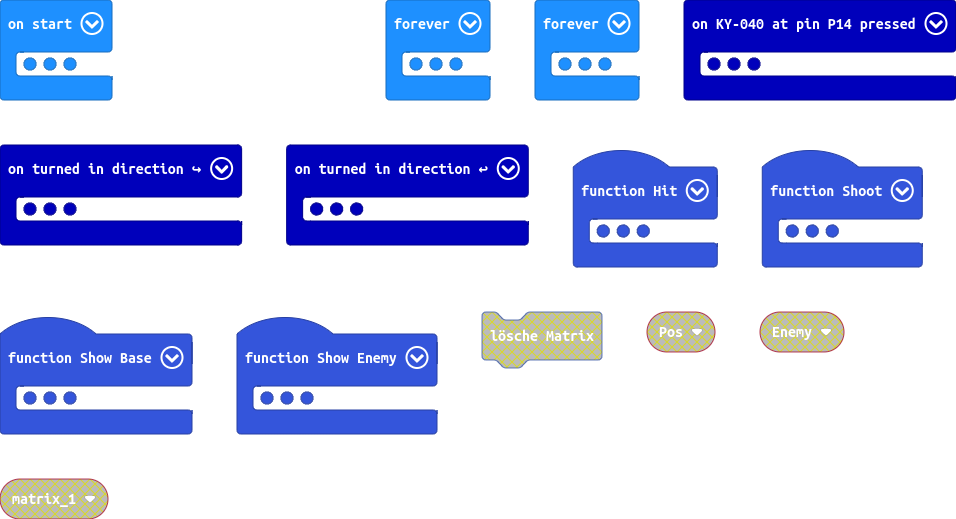
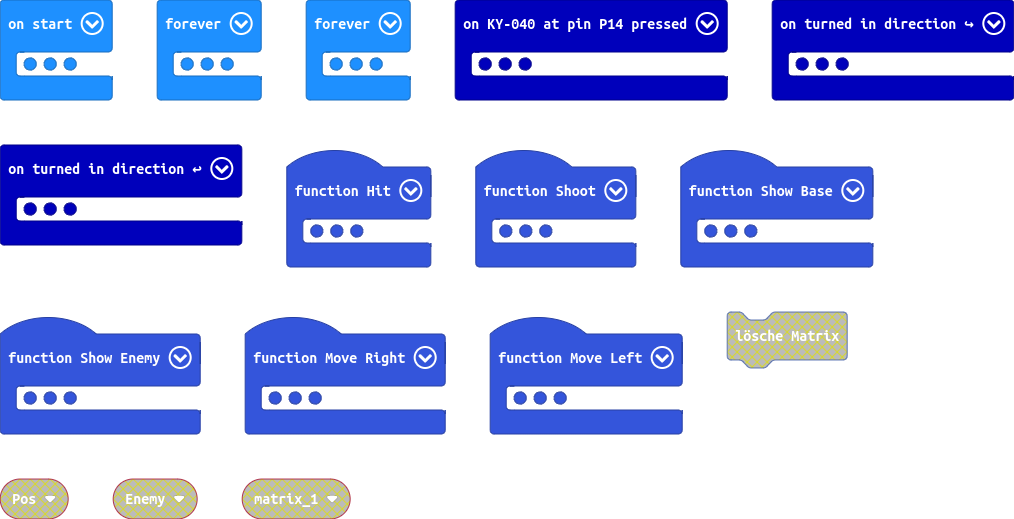
define move functions

diff --git a/main.ts b/main.ts
@@ -5,6 +5,14 @@ function Show_Enemy () {
     callimatrix.SetMatrixColorbright(0xff0000, 7, Enemy)
     callimatrix.callimatrix_show()
 }
+function Move_Right () {
+    Pos += -1
+    if (Pos <= 0) {
+        Pos = 0
+    }
+    basic.pause(25)
+    basic.clearScreen()
+}
 function Show_Base () {
     callimatrix.SetMatrixColorbright(0x000000, 0, Pos + 1, cbrightness.hp6)
     callimatrix.SetMatrixColorbright(0x000000, 0, Pos - 1, cbrightness.hp6)
@@ -28,12 +36,7 @@ function Shoot () {
     basic.clearScreen()
 }
 KY040.onTurned(direction.clockwise, function () {
-    Pos += 1
-    if (Pos >= 7) {
-        Pos = 7
-    }
-    basic.pause(25)
-    basic.clearScreen()
+    Move_Left()
 })
 function Hit () {
     basic.showIcon(IconNames.Angry)
@@ -44,13 +47,16 @@ function Hit () {
     basic.clearScreen()
 }
 KY040.onTurned(direction.counterclockwise, function () {
-    Pos += -1
-    if (Pos <= 0) {
-        Pos = 0
+    Move_Right()
+})
+function Move_Left () {
+    Pos += 1
+    if (Pos >= 7) {
+        Pos = 7
     }
     basic.pause(25)
     basic.clearScreen()
-})
+}
 let Enemy = 0
 let Pos = 0
 basic.showIcon(IconNames.Angry)
